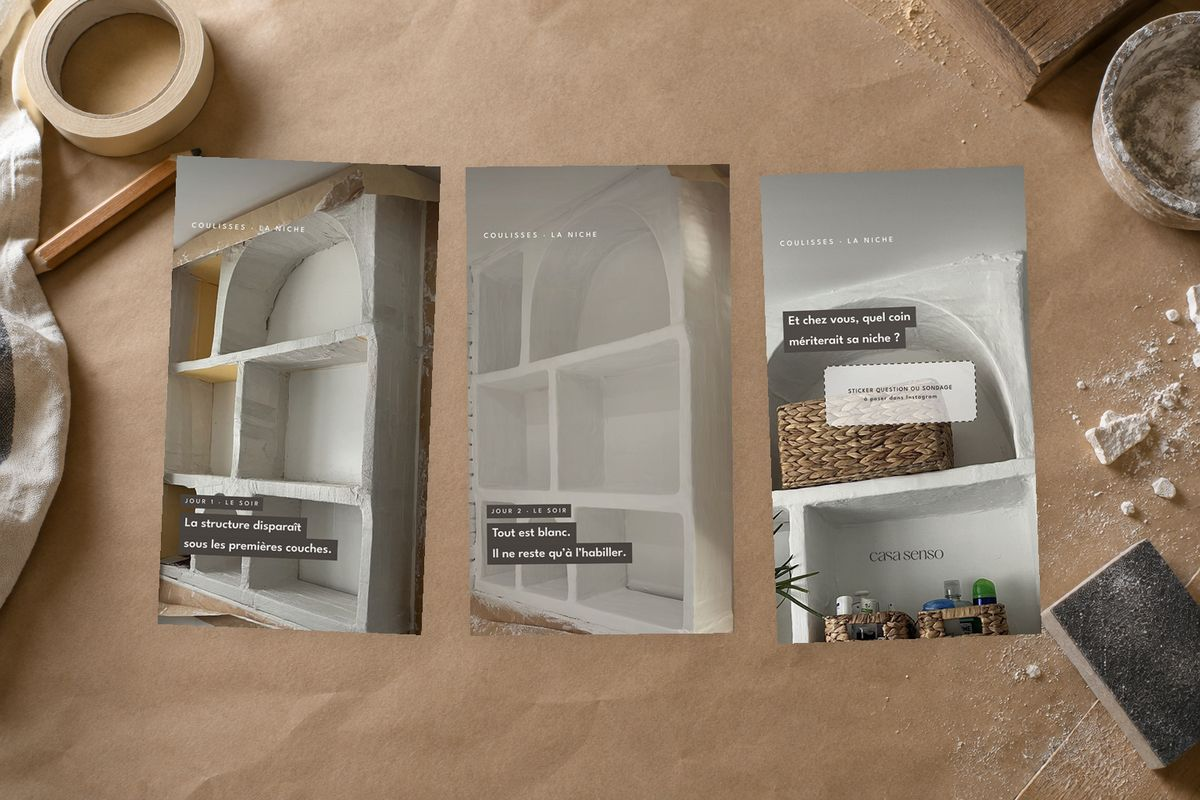
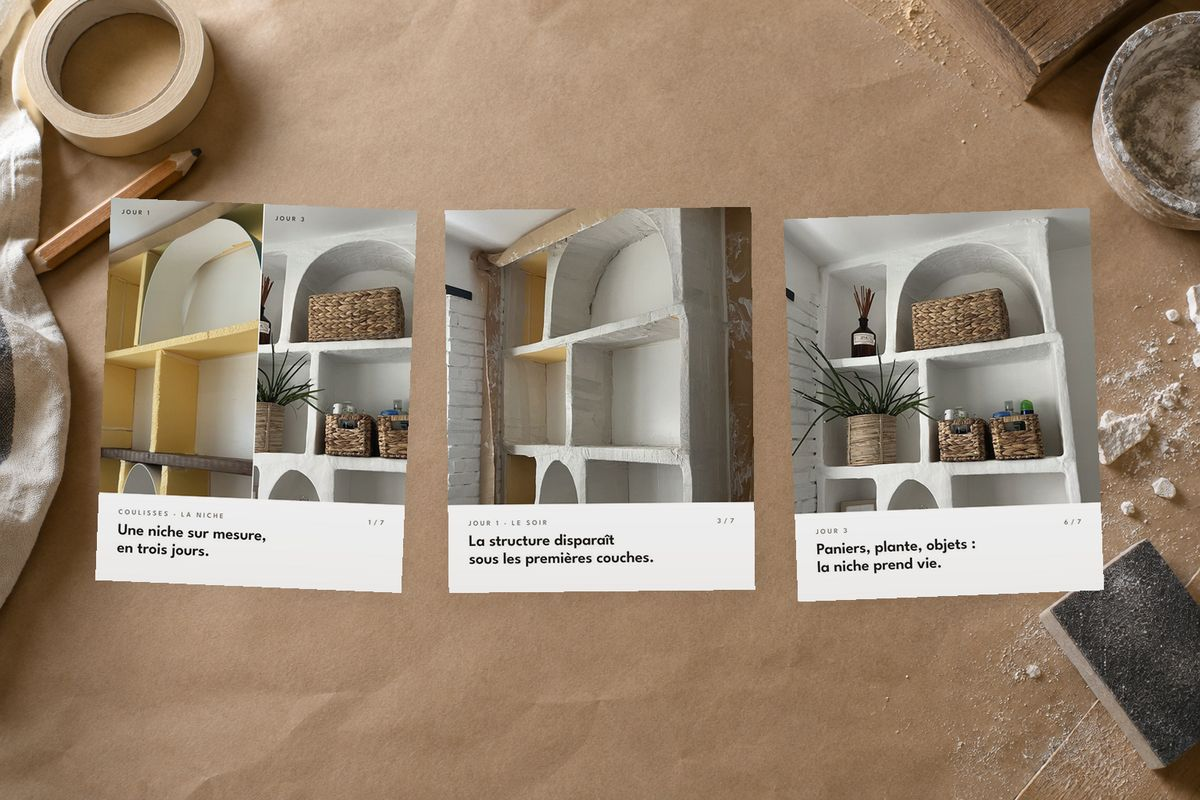
Choix Coulisses B et Idées déco B, voyage sans Laetitia, aperçu du profil Instagram

diff --git a/social/2026-11-strategie-instagram/index.html b/social/2026-11-strategie-instagram/index.html
@@ -138,6 +138,12 @@ section{padding-block:80px 0}
 .agenda .s{font-size:13px; color:var(--muted)}
 @media (max-width:760px){.agenda{display:block}}
 
+.apercu{display:grid; grid-template-columns:minmax(0,420px) 1fr; gap:40px; align-items:start}
+.phone{border:10px solid var(--fg); border-radius:36px; overflow:hidden auto; max-height:min(860px,85vh); background:#fff; scrollbar-width:none}
+.phone img{display:block; width:100%}
+.apercu-txt{display:grid; gap:14px; font-size:18px; max-width:46ch}
+.apercu-txt .s{color:var(--muted); font-size:16px}
+@media (max-width:760px){.apercu{grid-template-columns:1fr}}
 footer{margin-top:80px; padding-top:24px; border-top:1px solid var(--line); font-size:15px; color:var(--muted)}
 
 .lb{position:fixed; inset:0; z-index:20; background:rgba(15,12,10,.93); display:grid; grid-template-columns:auto 1fr auto; align-items:center; gap:12px;
@@ -153,7 +159,7 @@ footer{margin-top:80px; padding-top:24px; border-top:1px solid var(--line); font
 
 <nav class="nav" aria-label="Sommaire"><div class="nav-in">
   <span class="logo" role="img" aria-label="casa senso"></span>
-  <a href="#strategie">Stratégie</a><a href="#patterns">Patterns</a><a href="#rubriques">Rubriques</a><a href="#charte">Charte</a><a href="#calendrier">Calendrier</a>
+  <a href="#strategie">Stratégie</a><a href="#patterns">Patterns</a><a href="#rubriques">Rubriques</a><a href="#charte">Charte</a><a href="#calendrier">Calendrier</a><a href="#apercu">Aperçu</a>
 </div></nav>
 
 <div class="wrap">
@@ -221,6 +227,18 @@ footer{margin-top:80px; padding-top:24px; border-top:1px solid var(--line); font
     </div>
   </section>
 
+  <section id="apercu" aria-labelledby="t-apercu">
+    <div class="sec-head"><h2 id="t-apercu">Aperçu du profil</h2><p class="eyebrow">Après le 11 février 2027</p></div>
+    <div class="apercu">
+      <div class="phone"><img src="img/ig-apercu.jpg" alt="Aperçu du profil Instagram casa_senso.ch avec les publications prévues" loading="lazy"></div>
+      <div class="apercu-txt">
+        <p>Les 10 publications prévues, à la suite des 3 posts déjà en ligne (octobre 2026), le plus récent en haut à gauche. Faites défiler dans le téléphone.</p>
+        <p>La grille du profil est en 3:4 : Instagram rogne les posts 4:5 sur les côtés.</p>
+        <p class="s">Avant / après : version 1 en attendant le choix. Réalisation : couverture RE-1. La vidéo du 7 janvier reste à tourner.</p>
+      </div>
+    </div>
+  </section>
+
   <footer>Contrast · 13 novembre 2026 · fichier de travail : <a href="https://www.figma.com/design/xGYOPXzuBSCmZf94Z7FgK4/Principale" target="_blank" rel="noopener">Figma « Principale »</a></footer>
 </div>
 
@@ -239,7 +257,7 @@ const $ = s => document.querySelector(s);
 const R = (k, n) => Array.from({length:n}, (_, i) => `img/${k}-${String(i + 1).padStart(2, "0")}.jpg`);
 const COL = {livre:"var(--r-livre)", voyage:"var(--r-voyage)", aa:"var(--r-aa)", mood:"var(--r-mood)", real:"var(--r-real)", cou:"var(--r-cou)", pro:"var(--r-pro)", idees:"var(--r-idees)"};
 const HEX = {livre:"#A69368", aa:"#C8613F", mood:"#7A3B4E", real:"#E2A79A", cou:"#4A4440", pro:"#6E7F73", idees:"#404734"};
-const PAT_OF = {livre:"Parcours + Trois cartes", voyage:"Raconter son parcours", aa:"Avant, pendant, après", mood:"Planche décortiquée", real:"Visite plein cadre", cou:"Coulisses en blocs", pro:"Fiche projet", idees:"Trois cartes, une couleur"};
+const PAT_OF = {livre:"Parcours + Trois cartes", voyage:"Raconter son parcours", aa:"Avant, pendant, après", mood:"Planche décortiquée", real:"Visite plein cadre", cou:"Légende blanche", pro:"Fiche projet", idees:"Trois cartes, une couleur"};
 const NAME = {livre:"Le Livre", voyage:"Voyage", aa:"Avant / après", mood:"Moodboards", real:"Réalisations", cou:"Coulisses", pro:"Espaces pros", idees:"Idées déco"};
 
 const RUBS = [
@@ -249,20 +267,20 @@ const RUBS = [
    tabs:[["Marrakech", R("voyage",7)]]},
   {id:"aa", n:"03", name:"Avant / après", line:"Une transformation en étapes. 4 versions : une à choisir.", chips:[["wait","Textes à valider"],["","3 déc."]],
    tabs:[["1 · Version complète", R("aa",9)],["2 · Écran partagé", R("aa-var",12).slice(0,4)],["3 · Récit sur photo", R("aa-var",12).slice(4,8)],["4 · House & Garden", R("aa-var",12).slice(8,12)]]},
-  {id:"mood", n:"04", name:"Moodboards", line:"Sa planche, la palette, puis les pièces en gros plan.", chips:[["wait","Proposition v2 à valider"],["","15 déc."]],
-   tabs:[["Le salon vert · v2 haute qualité", R("mood2",9)],["Version 1 (sa planche)", R("mood",8)]]},
+  {id:"mood", n:"04", name:"Moodboards", line:"Sa planche, la palette, puis les pièces en gros plan.", chips:[["wait","Titres à valider"],["","15 déc."]],
+   tabs:[["Le salon vert", R("mood2",9)]]},
   {id:"real", n:"05", name:"Réalisations", line:"La visite d’un projet terminé.", chips:[["ok","Prêt"],["","22 déc."]],
    tabs:[["Visite Cannes", R("real",9)],["3 couvertures", R("real-cov",3)]]},
-  {id:"cou", n:"06", name:"Coulisses et chantiers", line:"Laetitia au travail, étape par étape.", chips:[["wait","3 variantes à choisir"],["","30 nov."]],
-   tabs:[["A · Grand chiffre", R("couA",4)],["B · Légende blanche", R("couB",4)],["C · Demi-carte", R("couC",4)],["Version actuelle", R("cou-post",7)],["Stories", R("cou-story",6), true]]},
+  {id:"cou", n:"06", name:"Coulisses et chantiers", line:"Laetitia au travail, étape par étape.", chips:[["wait","Textes à valider"],["","30 nov."]],
+   tabs:[["La niche", R("cob",7)]]},
   {id:"pro", n:"07", name:"Espaces professionnels", line:"Un lieu pro et sa fiche projet.", chips:[["wait","Accord du restaurant"],["","26 janv."]],
    tabs:[["ICHI Ramen Shop", R("pro",9)]]},
-  {id:"idees", n:"08", name:"Idées déco", line:"Un conseil concret, à enregistrer. Nouvelle DA alignée sur le site.", chips:[["wait","2 directions à choisir"],["","4 févr."]],
-   tabs:[["A · Page blanche", R("ideesA",6)],["B · Olive du site", R("ideesB",6)]]}
+  {id:"idees", n:"08", name:"Idées déco", line:"Un conseil concret, à enregistrer, dans l’olive du site.", chips:[["wait","Conseils à valider"],["","4 févr."]],
+   tabs:[["3 matières", R("ideesB",6)]]}
 ];
 
 // Couvertures
-["img/livre-1-01.jpg","img/real-cov-03.jpg","img/mood2-01.jpg","img/aa-var-09.jpg","img/voyage-01.jpg","img/ideesB-01.jpg","img/pro-01.jpg","img/cou-post-01.jpg"].forEach((s, i) => $("#covers").append(h("img", {src:s, alt:""})));
+["img/livre-1-01.jpg","img/real-cov-03.jpg","img/mood2-01.jpg","img/aa-var-09.jpg","img/voyage-01.jpg","img/ideesB-01.jpg","img/pro-01.jpg","img/cob-01.jpg"].forEach((s, i) => $("#covers").append(h("img", {src:s, alt:""})));
 
 // Visionneuse
 let LB = {list:[], i:0, cap:""};
@@ -303,8 +321,8 @@ const PATS = [
    d:"Le titre sur la couverture, puis les pièces sans aucun texte. Les photos font le travail ; une seule carte citation pour la voix du client."},
   {k:"planche", n:"La planche décortiquée", m:"Modèle House & Garden", r:["mood"], list:R("mood2",9),
    d:"On part de sa planche, on isole la palette, puis chaque matière en gros plan avec son nom. On comprend comment elle compose une pièce."},
-  {k:"coulisses", n:"Coulisses en blocs", m:"Modèle Dorothée Meilichzon", r:["cou"], list:R("cou-story",6),
-   d:"Une étape du chantier par écran, des phrases courtes dans des blocs foncés et le jour au-dessus. Se lit en trois secondes, en post ou en stories."},
+  {k:"coulisses", n:"Légende blanche", m:"Modèle Apartamento", r:["cou"], list:R("cob",7),
+   d:"La photo en haut, une bande blanche avec le jour, une phrase courte et le folio. Le chantier se lit comme un carnet, étape par étape."},
   {k:"fiche", n:"Fiche projet", m:"Modèle Studio McGee", r:["pro"], list:R("pro",9),
    d:"Une carte résume le lieu : type, approche, mission. Le client pro comprend la demande avant de voir le résultat."},
   {k:"presse", n:"La presse comme caution", m:"Gardé pour plus tard", r:[], later:true,
@@ -324,14 +342,14 @@ Object.keys(HEX).forEach(k => $("#dots").append(h("div", {class:"dot"}, h("i", {
 // Calendrier
 const EVENTS = [
   {d:"2026-11-17", k:"livre", t:"Le Livre · Chapitre I", img:"img/livre-1-01.jpg", list:R("livre-1",7)},
-  {d:"2026-11-30", k:"cou", t:"Coulisses · La niche", img:"img/cou-post-01.jpg", list:R("cou-post",7)},
+  {d:"2026-11-30", k:"cou", t:"Coulisses · La niche", img:"img/cob-01.jpg", list:R("cob",7)},
   {d:"2026-12-03", k:"aa", t:"Avant / après · Cannes", img:"img/aa-01.jpg", list:R("aa",9)},
   {d:"2026-12-15", k:"mood", t:"Moodboard · Le salon vert", img:"img/mood2-01.jpg", list:R("mood2",9)},
   {d:"2026-12-22", k:"real", t:"Réalisation · Cannes", img:"img/real-01.jpg", list:R("real",9)},
   {d:"2027-01-07", k:"cou", t:"Vidéo Casa Senso (à tourner)", flag:true},
   {d:"2027-01-19", k:"livre", t:"Le Livre · Chapitre II", img:"img/livre-2-01.jpg", list:R("livre-2",7)},
   {d:"2027-01-26", k:"pro", t:"Espace pro · ICHI", img:"img/pro-01.jpg", list:R("pro",9), flag:true},
-  {d:"2027-02-04", k:"idees", t:"Idées déco · 3 matières", img:"img/ideesA-01.jpg", list:R("ideesA",6)},
+  {d:"2027-02-04", k:"idees", t:"Idées déco · 3 matières", img:"img/ideesB-01.jpg", list:R("ideesB",6)},
   {d:"2027-02-11", k:"livre", t:"Le Livre · Chapitre III", img:"img/livre-3-01.jpg", list:R("livre-3",8)}
 ];
 const MONTHS = [[2026,10],[2026,11],[2027,0],[2027,1]];

diff --git a/outputs/batches/CASASENSO-patterns-mockups-20261113/compose.py b/outputs/batches/CASASENSO-patterns-mockups-20261113/compose.py
@@ -8,7 +8,7 @@ SETS = {
  "aa":        ["aa-02","aa-03","aa-05"],
  "visite":    ["real-01","real-03","real-04"],
  "planche":   ["mood2-01","mood2-03","mood2-04"],
- "coulisses": ["cou-story-02","cou-story-04","cou-story-06"],
+ "coulisses": ["cob-01","cob-03","cob-06"],
  "fiche":     ["pro-01","pro-02","pro-03"],
  "presse":    [None],
 }
@@ -35,7 +35,7 @@ for k, names in SETS.items():
         card = Image.new("RGB", (430, 538), (246, 241, 232))
         place(bg, card, 768, 512, -2.0)
     else:
-        story = k == "coulisses"
+        story = False
         H = 600 if story else 490
         xs = [768 - 440, 768, 768 + 440] if not story else [768 - 385, 768, 768 + 385]
         for i, n in enumerate(names):

diff --git a/docs/decisions-strategie.md b/docs/decisions-strategie.md
@@ -186,3 +186,10 @@ Format : date · décision · raison · remplace · statut · source.
 - **Remplace** : portrait slide 2 ; moodboard v1 ; couleur bleu majorelle des Idées déco.
 - **Statut** : propositions livrées, choix de Diego en attente (Coulisses A/B/C, Idées déco A/B, Avant/après 1 à 4).
 - **Source** : Diego, conversation du 13.11.2026.
+
+## 2026-11-13 · Choix de Diego : Coulisses « Légende blanche », Idées déco « Olive du site », moodboard v2 ; aperçu du profil
+- **Décision** : Coulisses = variante B « Légende blanche » (post complet de 7 slides, publication le 30 nov.) ; Idées déco = direction B « Olive du site » ; moodboard v2 seul (v1 retirée) ; voyage slide 2 sans Laetitia (IMG_1576, lanternes et scooter, texte blanc). Aperçu du profil Instagram construit dans Figma (page 01) avec ses 3 posts existants (scrapés le 13.11) et les 10 posts prévus.
+- **Raison** : retours de Diego du 13.11 ; règle « Figma d'abord, artefact ensuite ».
+- **Remplace** : variantes A et C des Coulisses, stories et post v1 ; Idées déco bleu et direction A ; moodboard v1 (tous déplacés dans la page Archives du Figma).
+- **Statut** : décidé ; Avant / après (versions 1 à 4) et couverture de la Réalisation encore à choisir.
+- **Source** : Diego, conversation du 13.11.2026.
